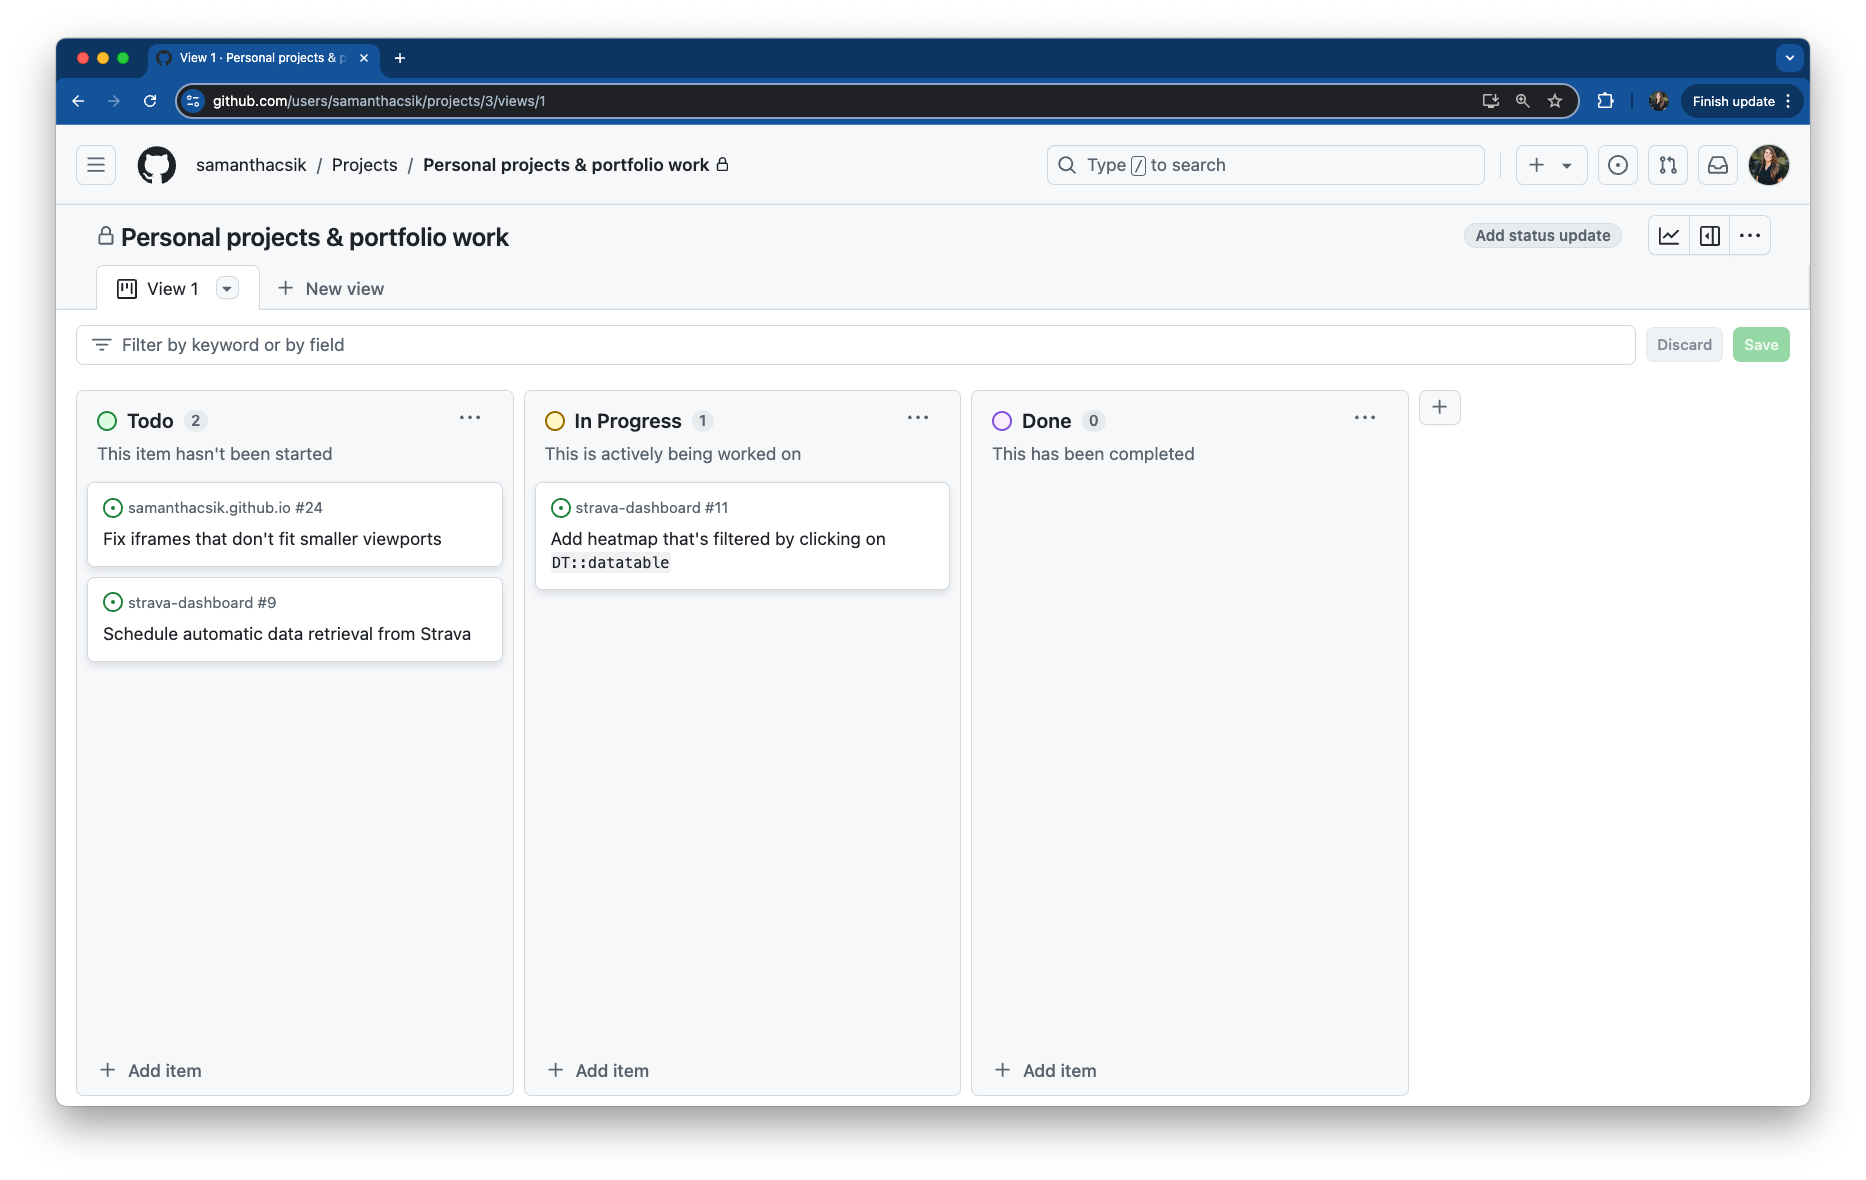
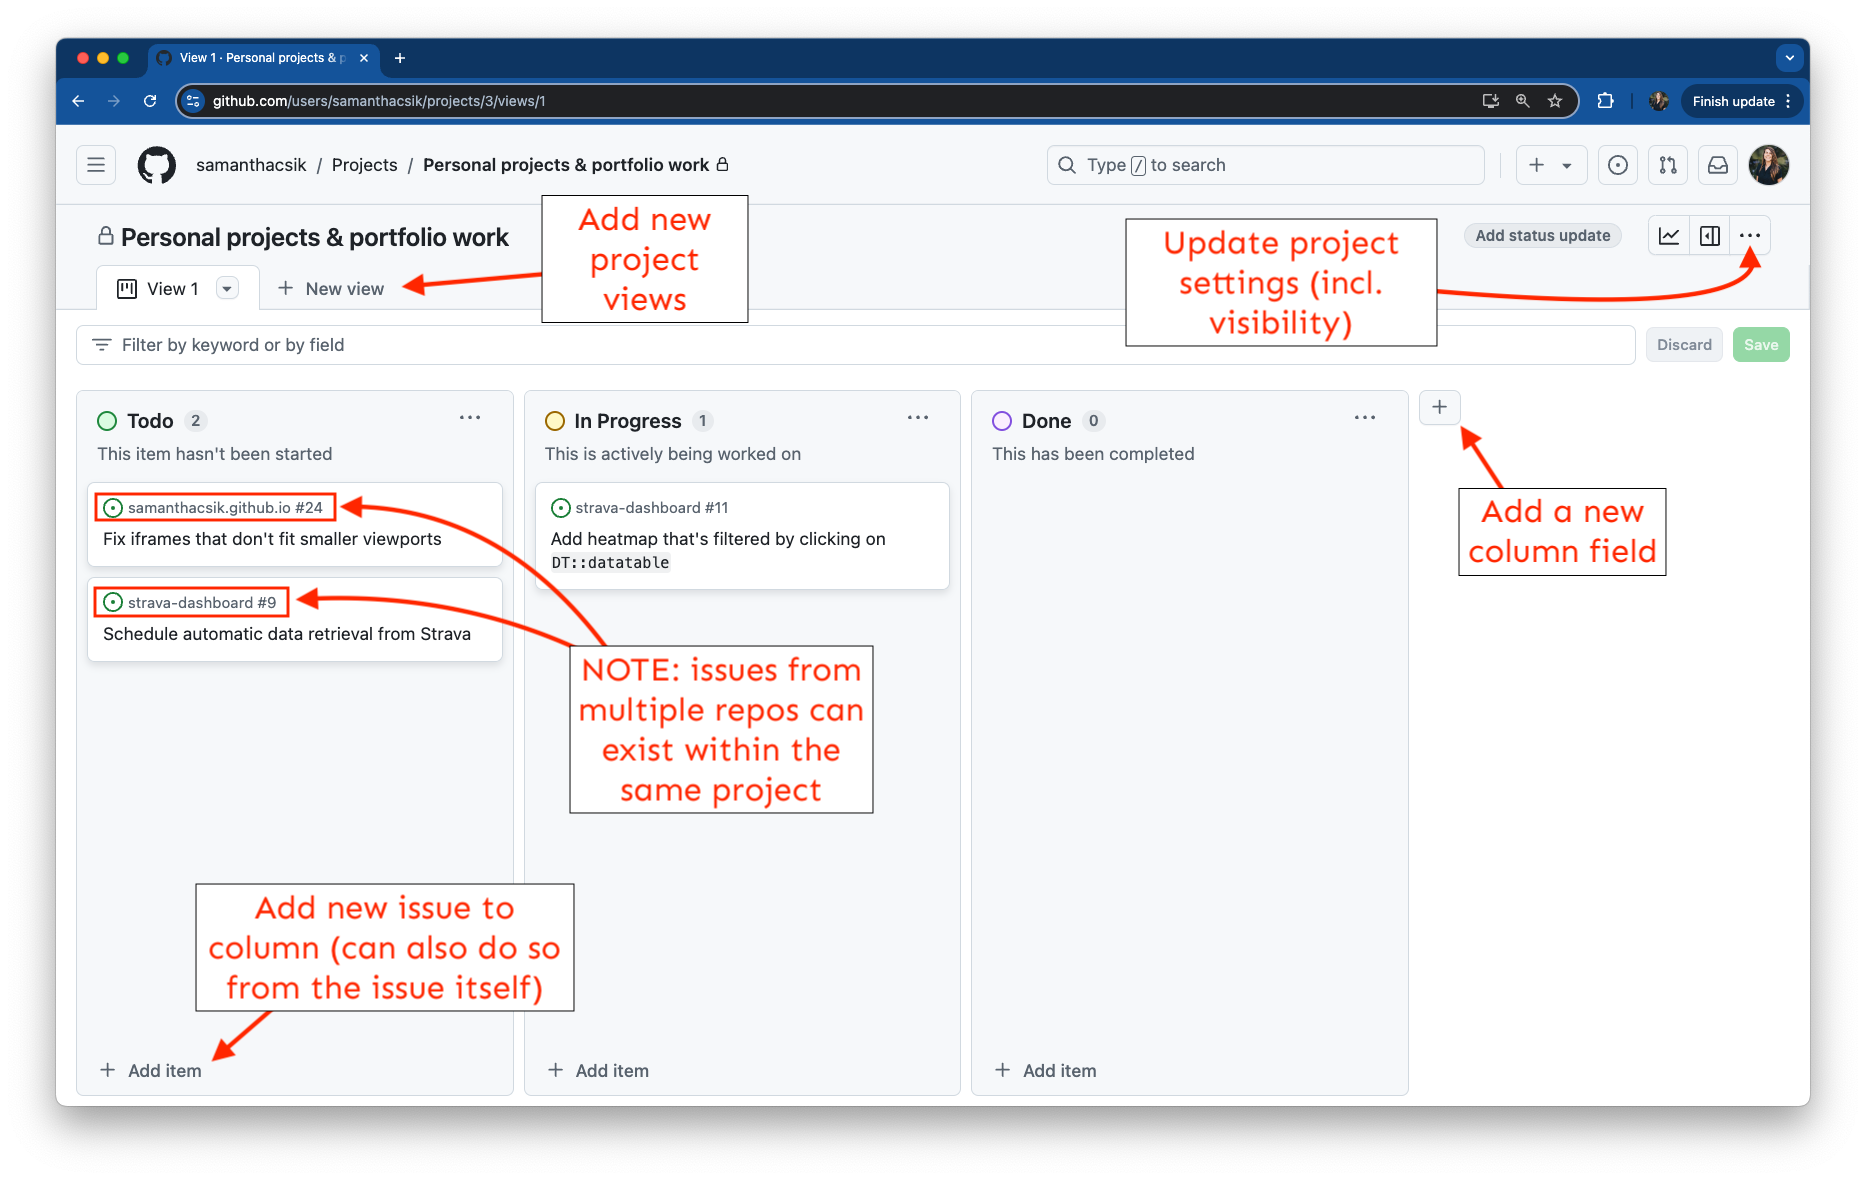
finished up through GHP screenshots

diff --git a/docs/course-materials/materials/github-tools.html b/docs/course-materials/materials/github-tools.html
@@ -385,75 +385,122 @@ Track ideas &amp; TODOs using GitHub issues
 <p><span class="slide-title">When should I use issues?</span></p>
 <hr>
 <p><br></p>
-<p><span class="body-text-m"><strong><em>Issues are useful and valuable whether you’re working alone or with collaborators.</em></strong></span></p>
+<p><span class="body-text-m"><strong><em>Issues are a useful and valuable tool for tracking TODOs, jotting down ideas, recording bugs, etc., regardless of whether you’re working alone or with collaborators.</em></strong></span></p>
 <p><br></p>
 <div class="fragment">
-<p>Like most things, it’s great to put some care and thought into writing an issue (<em>especially</em> when collaborating or contributing thoughts to a public project e.g.&nbsp;<a href="https://github.com/tidyverse/ggplot2/issues">ggplot2</a>). . .</p>
+<p>Like most things, it’s great to <strong>put some care and thought into writing an issue</strong> (<em>especially</em> when collaborating or contributing thoughts to a public project e.g.&nbsp;<a href="https://github.com/tidyverse/ggplot2/issues">ggplot2</a>). . .</p>
 <p><br></p>
 </div>
 <div class="fragment">
-<p>. . . <em>but</em> I’d also argue that a hasty issue on a personal project can go a long way in helping you remember a helpful resource, or that idea that popped into your mind at a time you couldn’t devote much attention to it.</p>
+<p>. . . <em>but</em> I’d also argue that <strong>a hasty issue on a personal project can still go a long way</strong> in helping you remember a helpful resource, or that idea that popped into your mind at a time you couldn’t devote much attention to it.</p>
 </div>
 </section>
 <section id="projects-start" class="slide level2" data-menu-title="GitHub Projects (start)" data-background="#047C90">
 <h2></h2>
 <div class="vertical-center center-text">
 <p class="custom-subtitle bottombr">
-Organize and prioritize issues using GitHub projects
+Organize and prioritize issues (and pull requests) using GitHub projects
 </p>
 </div>
 </section>
 <section id="projects" class="slide level2" data-menu-title="Projects">
 <h2></h2>
-<p><span class="slide-title2">Add issues from multiple repos to the same project</span></p>
+<p><span class="slide-title2">Create a project from your profile’s <em>Projects</em> tab</span></p>
 <hr>
 <blockquote>
 <p><em>“Projects are an adaptable collection of items that stay up-to-date with GitHub data. Your projects can track issues, pull requests, and ideas that you note down. You can add custom fields and create views for specific purposes.”</em></p>
 </blockquote>
-</section>
-<section class="slide level2">
-
+<p><span class="body-text-m"><strong>A few helpful features:</strong></span></p>
 <ul>
-<li>create project board</li>
-<li>add issues and tasks to projects</li>
-<li>steps for creating a project board</li>
+<li><a href="https://docs.github.com/en/issues/planning-and-tracking-with-projects/managing-items-in-your-project/adding-items-to-your-project">add issues or pull requests</a> (from multiple repos) to the same project</li>
+<li><a href="https://docs.github.com/en/issues/planning-and-tracking-with-projects/customizing-views-in-your-project/changing-the-layout-of-a-view">change and / or customize your project layout</a> (you may also add multiple views)</li>
+<li><a href="https://docs.github.com/en/issues/planning-and-tracking-with-projects/managing-your-project/adding-your-project-to-a-repository">link projects to relevant repositories</a></li>
+<li><a href="https://docs.github.com/en/issues/planning-and-tracking-with-projects/managing-your-project/managing-access-to-your-projects">manage access (for organization-level projects)</a></li>
 </ul>
+<div class="footer">
+<p>Learn more by exploring <a href="https://docs.github.com/en/issues/planning-and-tracking-with-projects/learning-about-projects/about-projects">GitHub Docs</a></p>
+</div>
+</section>
+<section id="projects-screenshot" class="slide level2" data-menu-title="Projects screenshot">
+<h2></h2>
+
+<img data-src="images/sam-project.png" class="quarto-figure quarto-figure-center r-stretch" style="width:100.0%"><div class="footer">
+<p>An example project for <a href="https://github.com/users/samanthacsik/projects/3/views/1">my personal projects</a></p>
+</div>
 </section>
 <section id="use-projects" class="slide level2" data-menu-title="When to use projects">
 <h2></h2>
 <p><span class="slide-title">When should I use projects?</span></p>
 <hr>
-
-<img data-src="images/sam-project.png" class="quarto-figure quarto-figure-center r-stretch" style="width:100.0%"></section>
-<section id="branches-start" class="slide level2" data-menu-title="GitHub brances (start)" data-background="#047C90">
-<h2></h2>
-<div class="vertical-center center-text">
-<p class="custom-subtitle bottombr">
-Branches (review…maybe?)
-</p>
+<p><br></p>
+<p><span class="body-text-m"><strong><em>If you use issues, projects may offer an additional helpful way to organize your tasks.</em></strong></span></p>
+<p><br></p>
+<div class="fragment">
+<p>Code is oftentimes spread across <strong>multiple repositories</strong> (capstone &amp; GPs are an excellent example of this!) – projects can be particularly <strong>helpful for tracking TODOs and progress across them.</strong></p>
+<p><br></p>
 </div>
-</section>
-<section class="slide level2">
-
-<p>Working on branches</p>
-<p>https://brunj7.github.io/EDS-214-analytical-workflows/day1-github_branches.html</p>
+<div class="fragment">
+<p><strong>Projects are not <em>required</em></strong> – you can decide if they are a helpful tool for you / your team.</p>
+</div>
 </section>
 <section id="ghp-start" class="slide level2" data-menu-title="GitHub Pages (start)" data-background="#047C90">
 <h2></h2>
 <div class="vertical-center center-text">
 <p class="custom-subtitle bottombr">
-Host reports, documents, websites, etc with GitHub Pages
+Host reports, documents, websites, etc. with GitHub Pages
 </p>
 </div>
 </section>
 <section id="GHP" class="slide level2" data-menu-title="GitHub Pages">
 <h2></h2>
-<p><span class="slide-title">Hosting reports, documents, websites, etc with GitHub Pages</span></p>
+<p><span class="slide-title">GitHub Pages can be enabled for any repo</span></p>
 <hr>
+<!-- >*"You can use GitHub Pages to host a website about yourself, your organization, or your project directly from a repository on GitHub."* -->
+<p><span class="body-text-m">You can host <strong>one</strong> website or rendered HTML document from any GitHub repository.</span></p>
+<p><br></p>
+<p><span class="body-text-m"><strong>Hosting additional <em>websites</em> via GHP:</strong></span></p>
+<ul>
+<li>same process as hosting your personal website (see <a href="https://ucsb-meds.github.io/creating-quarto-websites/#github-pages">week 0 materials</a>)
+<ul>
+<li><span class="body-text-s"><strong>NOTE:</strong> you’re only allowed <strong>one</strong> user website with the <code>github.io</code> suffix, e.g.&nbsp;<code>&lt;username&gt;.github.io</code> – all other URLs will be structured as <code>&lt;username&gt;.github.io/&lt;nameOfRepo&gt;</code>)</span></li>
+</ul></li>
+</ul>
+<p><span class="body-text-m"><strong>Hosting a rendered HTML <em>document</em> via GHP:</strong></span></p>
+<ul>
+<li>e.g.&nbsp;Quarto doc, Quarto presentation, Quarto manuscript…etc.</li>
+<li>rendered file must be named <code>index.html</code> and live in your repo’s root directory; no other configurations necessary</li>
+<li>deploy from <strong>Settings</strong> &gt; <strong>Pages</strong> &gt; set branch to <strong>main</strong> and directory to <strong>root</strong></li>
+<li>re-render <code>index.html</code>, then push to GitHub to update deployment</li>
+</ul>
 </section>
-<section class="slide level2">
-
-<p>how to GHP</p>
+<section id="ghp-screenshot" class="slide level2" data-menu-title="GHP screenshot">
+<h2></h2>
+<p><br></p>
+<div class="columns">
+<div class="column" style="width:50%;">
+<div class="cell" data-layout-align="center">
+<div class="cell-output-display">
+<div class="quarto-figure quarto-figure-center">
+<figure>
+<p><img data-src="images/ghp-repo.png" class="quarto-figure quarto-figure-center" style="width:100.0%"></p>
+</figure>
+</div>
+</div>
+</div>
+</div><div class="column" style="width:50%;">
+<div class="cell" data-layout-align="center">
+<div class="cell-output-display">
+<div class="quarto-figure quarto-figure-center">
+<figure>
+<p><img data-src="images/ghp-settings.png" class="quarto-figure quarto-figure-center" style="width:100.0%"></p>
+</figure>
+</div>
+</div>
+</div>
+</div></div>
+<div class="center-text">
+<p>The materials for <a href="https://ucsb-meds.github.io/creating-quarto-websites/#is-quarto-necessary">creating your personal website using Quarto</a> (above) is one example of a published document. Similarly, the slides for <a href="https://ucsb-meds.github.io/customizing-quarto-websites/#/title-slide">customizing your Quarto website</a> are also published using GitHub Pages.</p>
+</div>
 </section>
 <section id="use-GHP" class="slide level2" data-menu-title="When to use GHP">
 <h2></h2>

diff --git a/docs/course-materials/materials/readme-guidelines-slides.html b/docs/course-materials/materials/readme-guidelines-slides.html
@@ -441,7 +441,7 @@
 </div>
 <div class="cell">
 <div class="cell-output-display">
-<div class="countdown" id="timer_57e654b2" data-update-every="1" data-play-sound="true" tabindex="0" style="right:0;bottom:0;font-size:2em;">
+<div class="countdown" id="timer_cd34256f" data-update-every="1" data-play-sound="true" tabindex="0" style="right:0;bottom:0;font-size:2em;">
 <div class="countdown-controls"><button class="countdown-bump-down">−</button><button class="countdown-bump-up">+</button></div>
 <code class="countdown-time"><span class="countdown-digits minutes">01</span><span class="countdown-digits colon">:</span><span class="countdown-digits seconds">00</span></code>
 </div>
@@ -468,7 +468,7 @@
 </div>
 <div class="cell">
 <div class="cell-output-display">
-<div class="countdown" id="timer_c553e82f" data-update-every="1" data-play-sound="true" tabindex="0" style="right:0;bottom:0;font-size:2em;">
+<div class="countdown" id="timer_ded310d9" data-update-every="1" data-play-sound="true" tabindex="0" style="right:0;bottom:0;font-size:2em;">
 <div class="countdown-controls"><button class="countdown-bump-down">−</button><button class="countdown-bump-up">+</button></div>
 <code class="countdown-time"><span class="countdown-digits minutes">03</span><span class="countdown-digits colon">:</span><span class="countdown-digits seconds">00</span></code>
 </div>
@@ -503,7 +503,7 @@
 </div>
 <div class="cell">
 <div class="cell-output-display">
-<div class="countdown" id="timer_bca67f95" data-update-every="1" data-play-sound="true" tabindex="0" style="right:0;bottom:0;font-size:2em;">
+<div class="countdown" id="timer_35dd7287" data-update-every="1" data-play-sound="true" tabindex="0" style="right:0;bottom:0;font-size:2em;">
 <div class="countdown-controls"><button class="countdown-bump-down">−</button><button class="countdown-bump-up">+</button></div>
 <code class="countdown-time"><span class="countdown-digits minutes">04</span><span class="countdown-digits colon">:</span><span class="countdown-digits seconds">00</span></code>
 </div>
@@ -530,7 +530,7 @@
 </div>
 <div class="cell">
 <div class="cell-output-display">
-<div class="countdown" id="timer_c7952154" data-update-every="1" data-play-sound="true" tabindex="0" style="right:0;bottom:0;font-size:2em;">
+<div class="countdown" id="timer_6606b59b" data-update-every="1" data-play-sound="true" tabindex="0" style="right:0;bottom:0;font-size:2em;">
 <div class="countdown-controls"><button class="countdown-bump-down">−</button><button class="countdown-bump-up">+</button></div>
 <code class="countdown-time"><span class="countdown-digits minutes">03</span><span class="countdown-digits colon">:</span><span class="countdown-digits seconds">00</span></code>
 </div>
@@ -557,7 +557,7 @@
 </div>
 <div class="cell">
 <div class="cell-output-display">
-<div class="countdown" id="timer_347211fb" data-update-every="1" data-play-sound="true" tabindex="0" style="right:0;bottom:0;font-size:2em;">
+<div class="countdown" id="timer_667de6b1" data-update-every="1" data-play-sound="true" tabindex="0" style="right:0;bottom:0;font-size:2em;">
 <div class="countdown-controls"><button class="countdown-bump-down">−</button><button class="countdown-bump-up">+</button></div>
 <code class="countdown-time"><span class="countdown-digits minutes">02</span><span class="countdown-digits colon">:</span><span class="countdown-digits seconds">00</span></code>
 </div>
@@ -584,7 +584,7 @@
 </div>
 <div class="cell">
 <div class="cell-output-display">
-<div class="countdown" id="timer_cc130006" data-update-every="1" data-play-sound="true" tabindex="0" style="right:0;bottom:0;font-size:2em;">
+<div class="countdown" id="timer_c9426452" data-update-every="1" data-play-sound="true" tabindex="0" style="right:0;bottom:0;font-size:2em;">
 <div class="countdown-controls"><button class="countdown-bump-down">−</button><button class="countdown-bump-up">+</button></div>
 <code class="countdown-time"><span class="countdown-digits minutes">02</span><span class="countdown-digits colon">:</span><span class="countdown-digits seconds">00</span></code>
 </div>

diff --git a/docs/course-materials/materials/blogging-tips.html b/docs/course-materials/materials/blogging-tips.html
@@ -654,7 +654,7 @@
 <p><span class="body-text-m"><strong><em>I’ll reset the timer when you and your partner should switch roles!</em></strong></span></p>
 <div class="cell">
 <div class="cell-output-display">
-<div class="countdown" id="timer_471b9a80" data-update-every="1" data-play-sound="true" tabindex="0" style="right:0;bottom:0;font-size:2em;">
+<div class="countdown" id="timer_83f6e55b" data-update-every="1" data-play-sound="true" tabindex="0" style="right:0;bottom:0;font-size:2em;">
 <div class="countdown-controls"><button class="countdown-bump-down">−</button><button class="countdown-bump-up">+</button></div>
 <code class="countdown-time"><span class="countdown-digits minutes">04</span><span class="countdown-digits colon">:</span><span class="countdown-digits seconds">00</span></code>
 </div>
@@ -830,7 +830,7 @@
 </div>
 <div class="cell">
 <div class="cell-output-display">
-<div class="countdown" id="timer_42d2c71f" data-update-every="1" data-play-sound="true" tabindex="0" style="right:0;bottom:0;font-size:2em;">
+<div class="countdown" id="timer_635e92d6" data-update-every="1" data-play-sound="true" tabindex="0" style="right:0;bottom:0;font-size:2em;">
 <div class="countdown-controls"><button class="countdown-bump-down">−</button><button class="countdown-bump-up">+</button></div>
 <code class="countdown-time"><span class="countdown-digits minutes">02</span><span class="countdown-digits colon">:</span><span class="countdown-digits seconds">00</span></code>
 </div>
@@ -877,7 +877,7 @@
 </ul>
 <div class="cell">
 <div class="cell-output-display">
-<div class="countdown" id="timer_eb214c99" data-update-every="1" data-play-sound="true" tabindex="0" style="right:0;bottom:0;font-size:2em;">
+<div class="countdown" id="timer_42d5f6f4" data-update-every="1" data-play-sound="true" tabindex="0" style="right:0;bottom:0;font-size:2em;">
 <div class="countdown-controls"><button class="countdown-bump-down">−</button><button class="countdown-bump-up">+</button></div>
 <code class="countdown-time"><span class="countdown-digits minutes">06</span><span class="countdown-digits colon">:</span><span class="countdown-digits seconds">00</span></code>
 </div>
@@ -909,7 +909,7 @@
 <p><span class="body-text-m"><strong><em>I’ll reset the timer when you and your partner should switch roles!</em></strong></span></p>
 <div class="cell">
 <div class="cell-output-display">
-<div class="countdown" id="timer_106fdf7d" data-update-every="1" data-play-sound="true" tabindex="0" style="right:0;bottom:0;font-size:2em;">
+<div class="countdown" id="timer_6a5b6a83" data-update-every="1" data-play-sound="true" tabindex="0" style="right:0;bottom:0;font-size:2em;">
 <div class="countdown-controls"><button class="countdown-bump-down">−</button><button class="countdown-bump-up">+</button></div>
 <code class="countdown-time"><span class="countdown-digits minutes">02</span><span class="countdown-digits colon">:</span><span class="countdown-digits seconds">00</span></code>
 </div>
@@ -1034,7 +1034,7 @@
 </ul>
 <div class="cell">
 <div class="cell-output-display">
-<div class="countdown" id="timer_8aadce68" data-update-every="1" data-play-sound="true" tabindex="0" style="right:0;bottom:0;font-size:2em;">
+<div class="countdown" id="timer_21856863" data-update-every="1" data-play-sound="true" tabindex="0" style="right:0;bottom:0;font-size:2em;">
 <div class="countdown-controls"><button class="countdown-bump-down">−</button><button class="countdown-bump-up">+</button></div>
 <code class="countdown-time"><span class="countdown-digits minutes">06</span><span class="countdown-digits colon">:</span><span class="countdown-digits seconds">00</span></code>
 </div>

diff --git a/docs/course-materials/week0-build-websites.html b/docs/course-materials/week0-build-websites.html
@@ -295,7 +295,7 @@ Some considerations and example website bios
 <div id="callout-2" class="callout-2-contents callout-collapse collapse">
 <div class="callout-body-container callout-body">
 <ul>
-<li><strong>Adjust your bio to fit your chosen landing page <a href="https://quarto.org/docs/websites/website-about.html#templates">templates</a>.</strong> For example, <code>jolla</code> works well with short bios or even taglines, while <code>trestles</code> might be a better choice if you’re looking to add longer and / or multiple sections. <!-- - **Adopt an "evergreen content" mindset where possible (especially on your landing page).** "Evergreen content" is a marketing term that is used to describe content that remains relevant and interesting long after it's published. Carefully considering how you phrase information on your website can help it withstand the test of time (or at least for a while) and make website maintenance a bit easier. A couple sustainable language swap examples: --> <!--     - "Two years ago, I..." > "In 2022, I..." --> <!--     <!-- - "I'm a Master of Environmental Data Science student interested in..." > "I'm an environmental data scientist interested in..." --> <!--     - "I'm currently working on..." > "I have experience / expertise / interest in..." --></li>
+<li><strong>Adjust your bio to fit your chosen landing page <a href="https://quarto.org/docs/websites/website-about.html#templates">template</a>.</strong> For example, <code>jolla</code> works well with short bios or even taglines, while <code>trestles</code> might be a better choice if you’re looking to add longer and / or multiple sections. <!-- - **Adopt an "evergreen content" mindset where possible (especially on your landing page).** "Evergreen content" is a marketing term that is used to describe content that remains relevant and interesting long after it's published. Carefully considering how you phrase information on your website can help it withstand the test of time (or at least for a while) and make website maintenance a bit easier. A couple sustainable language swap examples: --> <!--     - "Two years ago, I..." > "In 2022, I..." --> <!--     <!-- - "I'm a Master of Environmental Data Science student interested in..." > "I'm an environmental data scientist interested in..." --> <!--     - "I'm currently working on..." > "I have experience / expertise / interest in..." --></li>
 <li><strong>Check out a few example websites for bio inspiration.</strong> Here are just a small handful fo websites, each with a slightly different approach to their landing page bios:
 <ul>
 <li><a href="https://samanthacsik.github.io/" target="_blank">Samantha Csik</a> (yours truly)</li>
